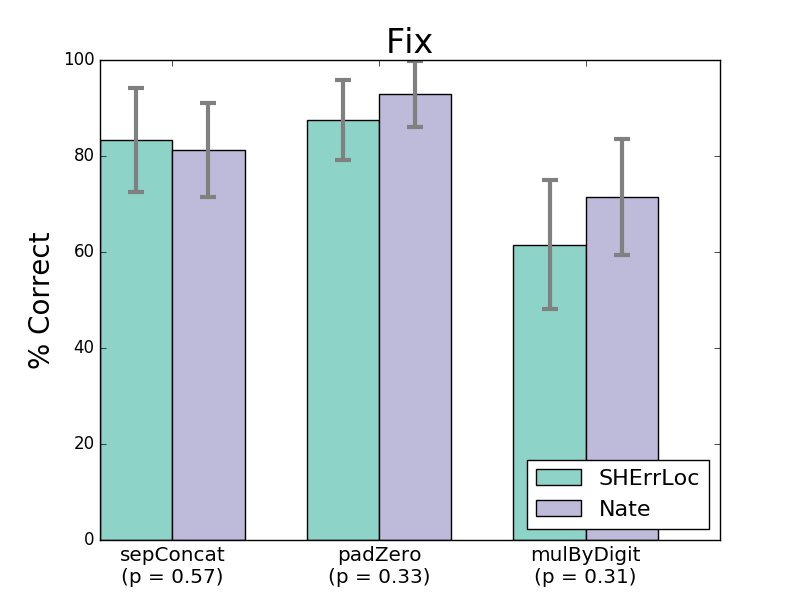
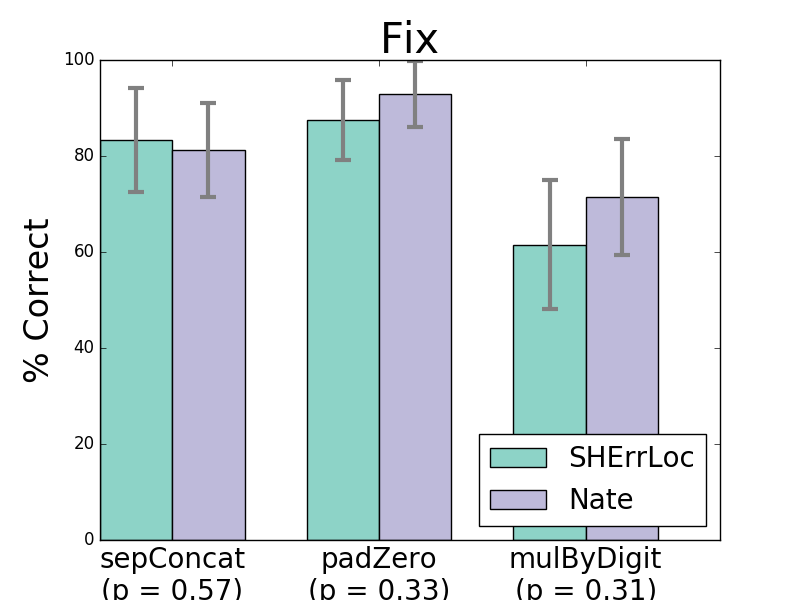
fiddle with graphs

diff --git a/paper/oopsla17-cameraready/plots.py b/paper/oopsla17-cameraready/plots.py
@@ -43,6 +43,10 @@ def plot_user_study():
     ind = np.arange(3)
     width = 0.35
 
+    print 'EXPLAIN'
+    print 'sherrloc'
+    print [100*np.average(sepconcat_a), 100*np.average(padzero_b), 100*np.average(mulbydigit_a)]
+    print map(err, [sepconcat_a, padzero_b, mulbydigit_a])
     fig = plt.figure()
     p_o = plt.bar(ind,
                   [100*np.average(sepconcat_a), 100*np.average(padzero_b), 100*np.average(mulbydigit_a)],
@@ -51,6 +55,9 @@ def plot_user_study():
                   yerr=map(err, [sepconcat_a, padzero_b, mulbydigit_a]),
                   error_kw={'linewidth': 3, 'ecolor': 'gray', 'capsize': 6, 'capthick': 3}
     )
+    print 'nate'
+    print [100*np.average(sepconcat_b), 100*np.average(padzero_a), 100*np.average(mulbydigit_b)]
+    print map(err, [sepconcat_b, padzero_a, mulbydigit_b])
     p_n = plt.bar(ind + width,
                   [100*np.average(sepconcat_b), 100*np.average(padzero_a), 100*np.average(mulbydigit_b)],
                   width,
@@ -59,11 +66,11 @@ def plot_user_study():
                   error_kw={'linewidth': 3, 'ecolor': 'gray', 'capsize': 6, 'capthick': 3}
     )
 
-    plt.title('Explanation',fontsize=24)
+    plt.title('Explanation',fontsize=30)
     # plt.xlabel('Problem', fontsize=20)
-    plt.ylabel('% Correct', fontsize=20)
-    plt.xticks(ind + width, ['sepconcat\n(p = 0.48)', 'padzero\n(p = 0.097)', 'mulbydigit\n(p = 0.083)'], fontsize='large')
-    plt.legend(('SHErrLoc', 'Nate'), loc='lower right', fontsize=16)
+    plt.ylabel('% Correct', fontsize=24)
+    plt.xticks(ind + width, ['sepConcat\n(p = 0.48)', 'padZero\n(p = 0.097)', 'mulByDigit\n(p = 0.083)'], fontsize=20)
+    plt.legend(('SHErrLoc', 'Nate'), loc='lower right', fontsize=20)
     # autolabel(plt, p_o)
     # autolabel(plt, p_n)
 
@@ -83,6 +90,10 @@ def plot_user_study():
     ind = np.arange(3)
     width = 0.35
 
+    print 'FIX'
+    print 'sherrloc'
+    print [100*np.average(sepconcat_a), 100*np.average(padzero_b), 100*np.average(mulbydigit_a)]
+    print map(err, [sepconcat_a, padzero_b, mulbydigit_a])
     fig = plt.figure()
     p_o = plt.bar(ind,
                   [100*np.average(sepconcat_a), 100*np.average(padzero_b), 100*np.average(mulbydigit_a)],
@@ -91,6 +102,9 @@ def plot_user_study():
                   yerr=map(err, [sepconcat_a, padzero_b, mulbydigit_a]),
                   error_kw={'linewidth': 3, 'ecolor': 'gray', 'capsize': 6, 'capthick': 3}
     )
+    print 'nate'
+    print [100*np.average(sepconcat_b), 100*np.average(padzero_a), 100*np.average(mulbydigit_b)]
+    print map(err, [sepconcat_b, padzero_a, mulbydigit_b])
     p_n = plt.bar(ind + width,
                   [100*np.average(sepconcat_b), 100*np.average(padzero_a), 100*np.average(mulbydigit_b)],
                   width,
@@ -99,11 +113,11 @@ def plot_user_study():
                   error_kw={'linewidth': 3, 'ecolor': 'gray', 'capsize': 6, 'capthick': 3}
     )
 
-    plt.title('Fix',fontsize=24)
+    plt.title('Fix',fontsize=30)
     # plt.xlabel('Problem', fontsize=20)
-    plt.ylabel('% Correct', fontsize=20)
-    plt.xticks(ind + width, ['sepConcat\n(p = 0.57)', 'padZero\n(p = 0.33)', 'mulByDigit\n(p = 0.31)'], fontsize='large')
-    plt.legend(('SHErrLoc', 'Nate'), loc='lower right', fontsize=16)
+    plt.ylabel('% Correct', fontsize=24)
+    plt.xticks(ind + width, ['sepConcat\n(p = 0.57)', 'padZero\n(p = 0.33)', 'mulByDigit\n(p = 0.31)'], fontsize=20)
+    plt.legend(('SHErrLoc', 'Nate'), loc='lower right', fontsize=20)
     # autolabel(plt, p_o)
     # autolabel(plt, p_n)
 

diff --git a/paper/oopsla17-cameraready/evaluation-user-study-graph.tex b/paper/oopsla17-cameraready/evaluation-user-study-graph.tex
@@ -1,0 +1,112 @@
+\begin{figure}[t]
+\centering
+%% EXPLAIN
+\begin{tikzpicture}
+\begin{axis}[
+  ybar,
+  % width=6cm,
+  height=6cm,
+  title={\large Explanation},
+  ylabel={\% Correct},
+  bar width=0.5cm,
+  ymin=0,
+  ymax=1,
+  yticklabel={\pgfmathparse{\tick*100}\pgfmathprintnumber{\pgfmathresult}\,\%},
+  ytick style={draw=none},
+  ymajorgrids = true,
+  enlarge x limits=0.25,
+  symbolic x coords={{sepConcat}, {padZero}, {mulByDigit}},
+  xtick=data,
+  xtick style={draw=none},
+  xticklabel style={align=center},
+  xticklabels={
+    {\texttt{sepConcat}\\($p=0.48$)},
+    {\texttt{padZero}\\($p=0.097$)},
+    {\texttt{mulByDigit}\\($p=0.083$)}
+  },
+  % x tick label style={rotate=45, anchor=north east},
+  %x tick label style={font=\small},
+  y tick label style={font=\small},
+  reverse legend,
+  transpose legend,
+  legend style={legend pos = south west, font=\footnotesize},
+]
+
+% ES: NOTE: ORDER OF PLOTS/LEGEND ENTRIES MATTERS
+
+\addplot[draw=black, fill=green2, bar shift=.25cm, error bars/.cd, y dir=both, y explicit] coordinates {
+  (sepConcat, 0.8125)  +- (0, 0.0976)
+  (padZero, 1.00)      +- (0, 0)
+  (mulByDigit, 0.8125) +- (0, 0.0976)
+};
+\addlegendentry{\toolname}
+
+\addplot[draw=black, fill=blue2, bar shift=-.25cm, error bars/.cd, y dir=both, y explicit] coordinates {
+  (sepConcat, 0.80)    +- (0, 0.1033)
+  (padZero, 0.875)     +- (0, 0.0827)
+  (mulByDigit, 0.5714) +- (0, 0.1323)
+};
+\addlegendentry{\sherrloc}
+\end{axis}
+\end{tikzpicture}
+%% FIX
+\begin{tikzpicture}
+\begin{axis}[
+  ybar,
+  % width=6cm,
+  height=6cm,
+  title={\large Fix},
+  ylabel={\% Correct},
+  bar width=0.5cm,
+  ymin=0,
+  ymax=1,
+  yticklabel={\pgfmathparse{\tick*100}\pgfmathprintnumber{\pgfmathresult}\,\%},
+  ytick style={draw=none},
+  ymajorgrids = true,
+  enlarge x limits=0.25,
+  symbolic x coords={{sepConcat}, {padZero}, {mulByDigit}},
+  xtick=data,
+  xtick style={draw=none},
+  xticklabel style={align=center},
+  xticklabels={
+    {\texttt{sepConcat}\\($p=0.57$)},
+    {\texttt{padZero}\\($p=0.33$)},
+    {\texttt{mulByDigit}\\($p=0.31$)}
+  },
+  % x tick label style={rotate=45, anchor=north east},
+  %x tick label style={font=\small},
+  y tick label style={font=\small},
+  reverse legend,
+  transpose legend,
+  legend style={legend pos = south west, font=\footnotesize},
+]
+
+% ES: NOTE: ORDER OF PLOTS/LEGEND ENTRIES MATTERS
+
+\addplot[draw=black, fill=green2, bar shift=.25cm, error bars/.cd, y dir=both, y explicit] coordinates {
+  (sepConcat, 0.8125)  +- (0, 0.0976)
+  (padZero, 0.9286)    +- (0, 0.0688)
+  (mulByDigit, 0.7143) +- (0, 0.1207)
+};
+\addlegendentry{\toolname}
+
+\addplot[draw=black, fill=blue2, bar shift=-.25cm, error bars/.cd, y dir=both, y explicit] coordinates {
+  (sepConcat, 0.83)    +- (0, 0.1076)
+  (padZero, 0.875)     +- (0, 0.0827)
+  (mulByDigit, 0.6154) +- (0, 0.1349)
+};
+\addlegendentry{\sherrloc}
+\end{axis}
+\end{tikzpicture}
+\caption[A classification of students' explanations and fixes for type
+  errors, given either \sherrloc or \toolname's blame assignment.]
+  {A classification of students' explanations and fixes for type
+  errors, given either \sherrloc or \toolname's blame assignment.
+  %
+  The students given \toolname's location generally scored
+  better than those given \sherrloc's.
+  %
+  We report the result of a one-sided Mann-Whitney $U$ test for
+  statistical significance in parentheses.}
+\label{fig:user-study-results}
+\end{figure}

diff --git a/paper/oopsla17-cameraready/evaluation-user-study.tex b/paper/oopsla17-cameraready/evaluation-user-study.tex
@@ -137,27 +137,30 @@ collecting more responses per test pair was not possible as it
 would require having students answer the same problem twice (once with
 \sherrloc and once with \toolname).
 
-\begin{figure}[t]
-\centering
-% \centerline{
-% \begin{minipage}{1.2\textwidth}
-\includegraphics[width=0.7\linewidth]{user-study-reason.png}
-\includegraphics[width=0.7\linewidth]{user-study-fix.png}
-% \end{minipage}
-% }
-% \vspace{3ex}
-\caption[A classification of students' explanations and fixes for type
-  errors, given either \sherrloc or \toolname's blame assignment.]
-  {A classification of students' explanations and fixes for type
-  errors, given either \sherrloc or \toolname's blame assignment.
-  %
-  The students given \toolname's location generally scored
-  better than those given \sherrloc's.
-  %
-  We report the result of a one-sided Mann-Whitney $U$ test for
-  statistical significance in parentheses.}
-\label{fig:results-user-study}
-\end{figure}
+\input{evaluation-user-study-graph}
+
+% \begin{figure}[t]
+% \centering
+% % \centerline{
+% % \begin{minipage}{1.2\textwidth}
+% % \centering
+% \includegraphics[width=0.49\linewidth]{user-study-reason.png}
+% \includegraphics[width=0.49\linewidth]{user-study-fix.png}
+% % \end{minipage}
+% % }
+% % \vspace{3ex}
+% \caption[A classification of students' explanations and fixes for type
+%   errors, given either \sherrloc or \toolname's blame assignment.]
+%   {A classification of students' explanations and fixes for type
+%   errors, given either \sherrloc or \toolname's blame assignment.
+%   %
+%   The students given \toolname's location generally scored
+%   better than those given \sherrloc's.
+%   %
+%   We report the result of a one-sided Mann-Whitney $U$ test for
+%   statistical significance in parentheses.}
+% \label{fig:results-user-study}
+% \end{figure}
 
 \mypara{Results}
 %

diff --git a/paper/oopsla17-cameraready/evaluation-utility-graph.tex b/paper/oopsla17-cameraready/evaluation-utility-graph.tex
@@ -9,13 +9,13 @@
   %at=(feature.above north), anchor=below south east,
   ybar stacked,
   width=0.5\linewidth,
-  height=4cm,
+  height=5cm,
   %title={Impact of Type Error Slice},
   ylabel={Accuracy},
   bar width=0.5cm,
-  ymin=0.2,
+  ymin=0,
   ymax=1,
-  ytick={0.2, 0.3, 0.4, 0.5, 0.6, 0.7, 0.8, 0.9, 1.0},
+  ytick={0.0, 0.1, 0.2, 0.3, 0.4, 0.5, 0.6, 0.7, 0.8, 0.9, 1.0},
   yticklabel={\pgfmathparse{\tick*100}\pgfmathprintnumber{\pgfmathresult}\,\%},
   ytick style={draw=none},
   ymajorgrids = true,
@@ -65,12 +65,12 @@
 \begin{axis}[
   ybar stacked,
   width=0.5\linewidth,
-  height=4cm,
+  height=5cm,
   ylabel={Recall},
   axis y line*=right,
-  ymin=0.2,
+  ymin=0,
   ymax=1,
-  ytick={0.2, 0.3, 0.4, 0.5, 0.6, 0.7, 0.8, 0.9, 1.0},
+  ytick={0.0, 0.1, 0.2, 0.3, 0.4, 0.5, 0.6, 0.7, 0.8, 0.9, 1.0},
   yticklabel={\pgfmathparse{\tick*100}\pgfmathprintnumber{\pgfmathresult}\,\%},
   ytick style={draw=none},
   ymajorgrids = false,
@@ -94,7 +94,7 @@
   % scale only axis,
   ybar stacked,
   width=0.9\linewidth,
-  height=5cm,
+  height=6cm,
   %title={Impact of Contextual Feature Classes},
   ylabel={Accuracy},
   bar width=0.5cm,
@@ -161,7 +161,7 @@
 \begin{axis}[
   ybar stacked,
   width=0.9\linewidth,
-  height=5cm,
+  height=6cm,
   ylabel={Recall},
   axis y line*=right,
   ymin=0.5,

diff --git a/paper/oopsla17-cameraready/evaluation-accuracy-graph.tex b/paper/oopsla17-cameraready/evaluation-accuracy-graph.tex
@@ -109,13 +109,13 @@
 \begin{axis}[
   ybar stacked,
   width=\linewidth,
-  height=6cm,
+  height=8cm,
   title={Accuracy of Type Error Localization Techniques},
   ylabel={Accuracy},
   bar width=0.5cm,
-  ymin=0.2,
+  ymin=0,
   ymax=1,
-  ytick={0.2, 0.3, 0.4, 0.5, 0.6, 0.7, 0.8, 0.9, 1.0},
+  ytick={0.0, 0.1, 0.2, 0.3, 0.4, 0.5, 0.6, 0.7, 0.8, 0.9, 1.0},
   yticklabel={\pgfmathparse{\tick*100}\pgfmathprintnumber{\pgfmathresult}\,\%},
   ytick style={draw=none},
   ymajorgrids = true,
